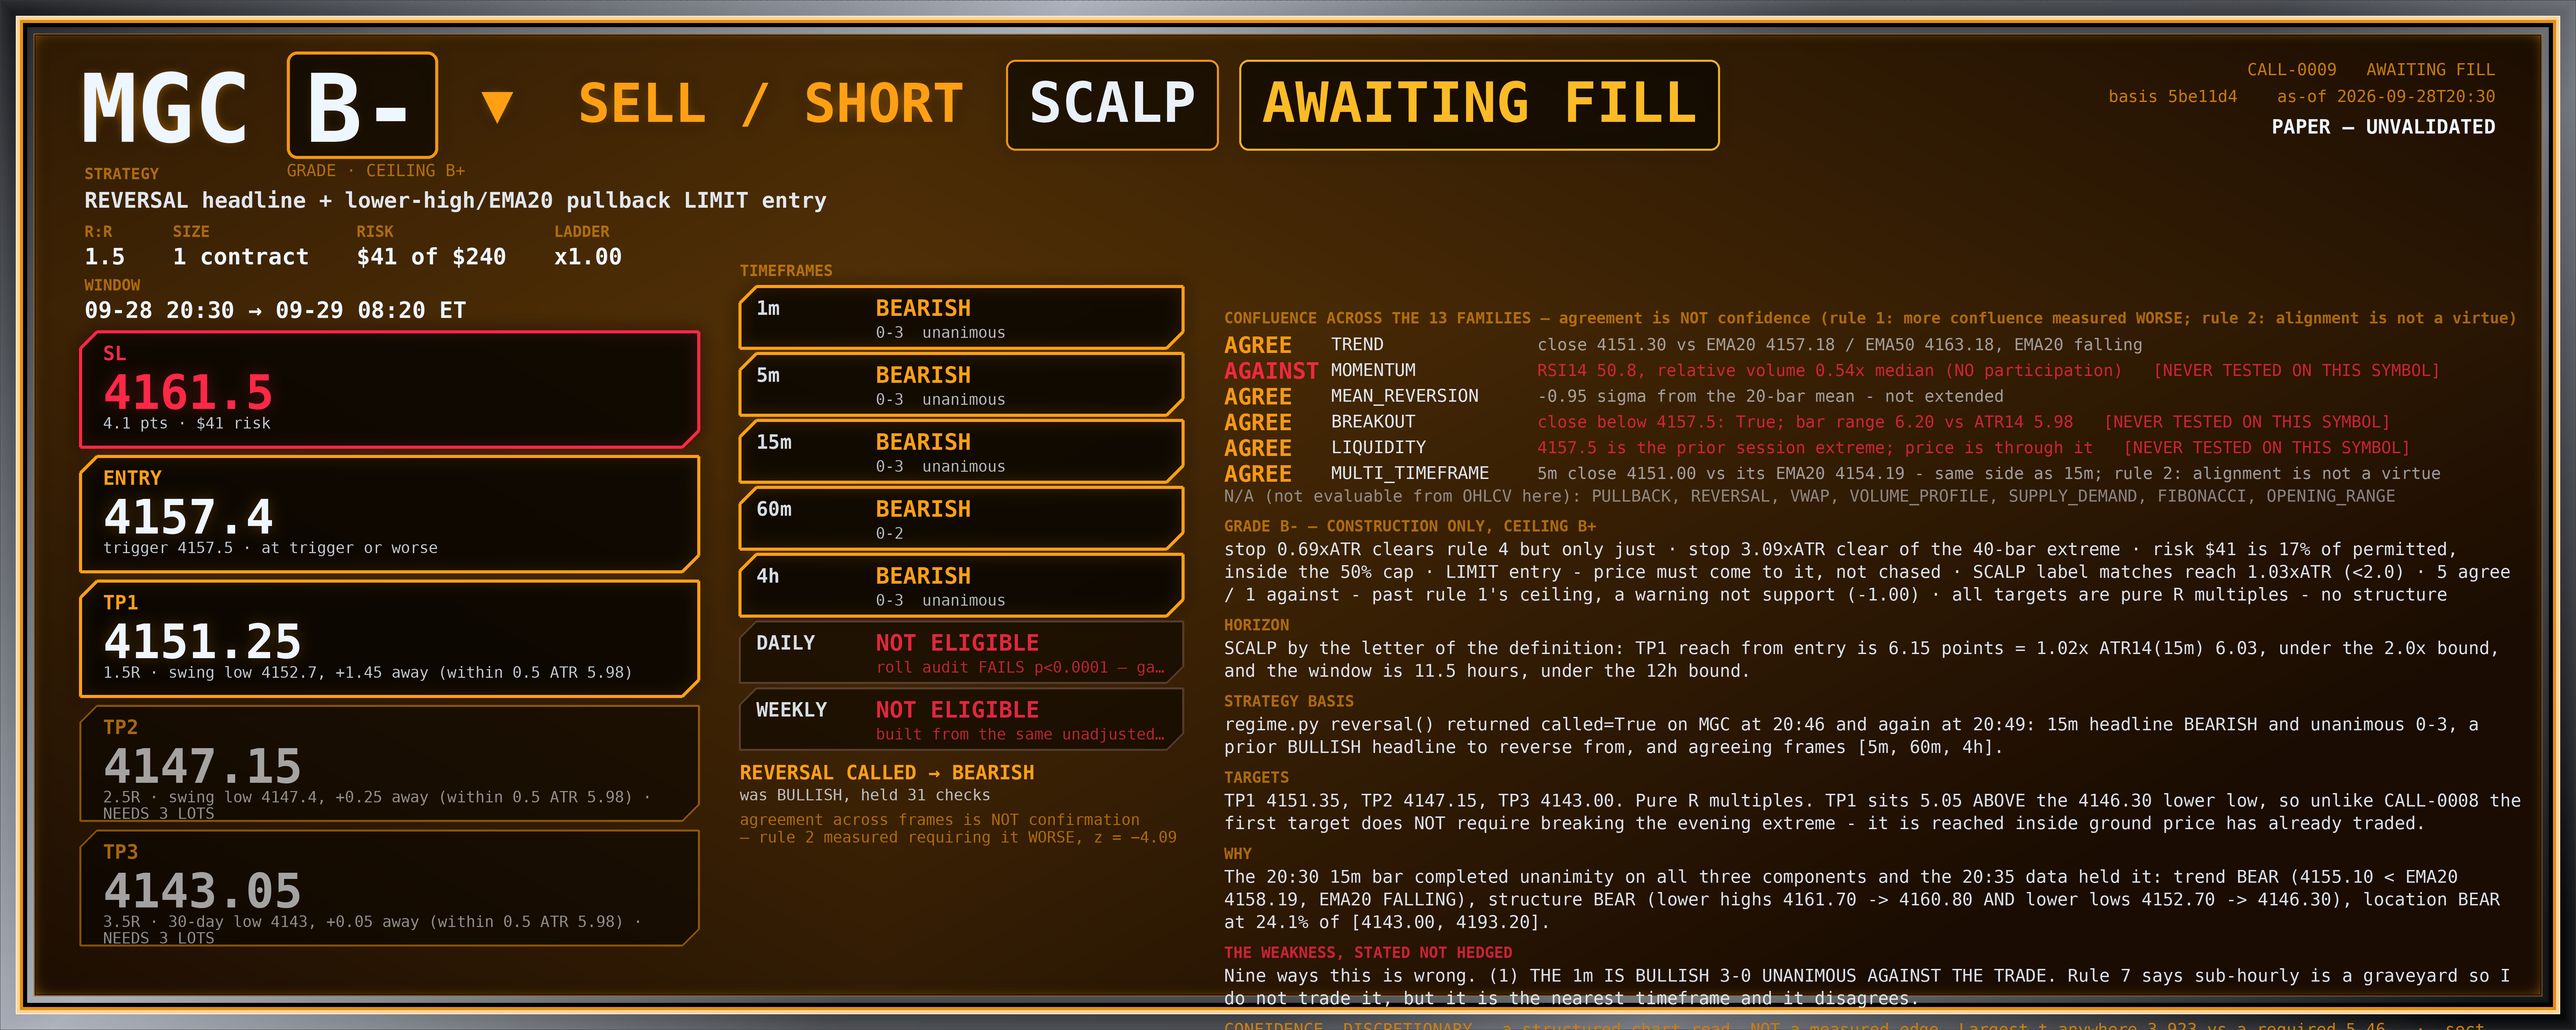
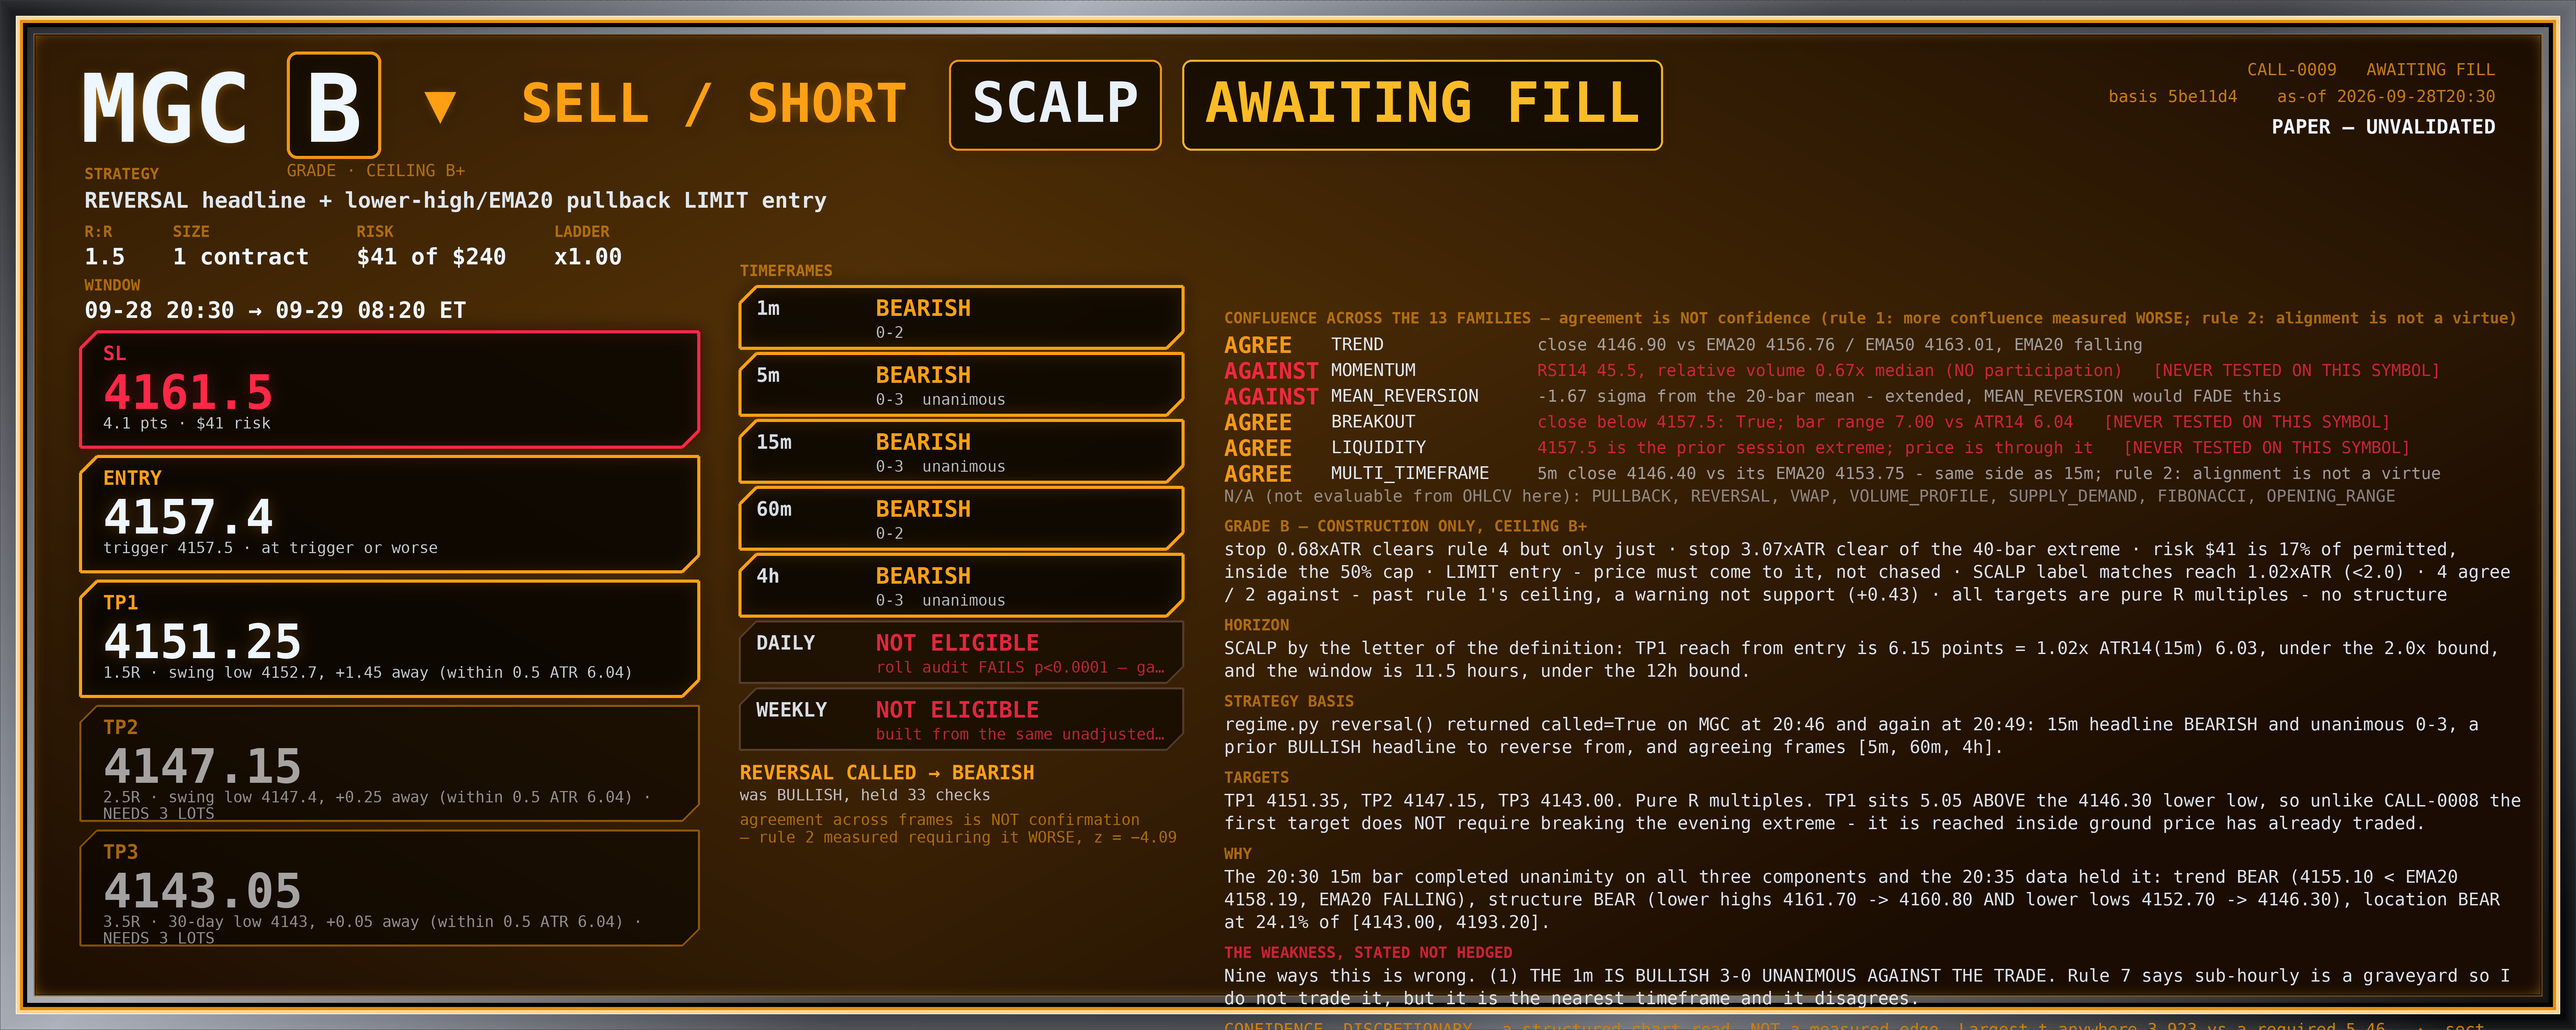
CALL: 21:02 — N228 watch.py location thresholds were 66/34 vs chart.py's 60/40; MNQ reversal declined first-bar
Claude-Session: https://claude.ai/code/session_01EE6PFk7fGa2tM4KP6dpfWD

diff --git a/workspace/paper/CALL/watch.py b/workspace/paper/CALL/watch.py
@@ -15,7 +15,7 @@ would flip each one. Three components must agree for `reversal()` to fire:
 
   trend      close vs EMA20(15m)          -> the level is the EMA20 itself
   structure  last two pivot highs / lows  -> the level is the pivot that must be taken out
-  location   position in the 40-bar range -> the level is the 66% / 34% boundary
+  location   position in the 40-bar range -> the level is the 60% / 40% boundary (chart.py's own cut)
 
 A level here is a TRIGGER TO WATCH, never a plan. Pre-registering still requires the gate to
 actually fire, both vetoes clear, and a written plan with its weakness stated -- and `capacity`
@@ -85,13 +85,18 @@ def report(sym: str) -> None:
         # location
         if rng > 0:
             loc = (px - lo_r) / rng
-            if want > 0 and loc < 0.66:
-                lvl = lo_r + 0.66 * rng
-                need.append(f"location: above {lvl:.2f} = 66% of [{lo_r:.2f}, {hi_r:.2f}]"
+            # N228: these MUST match chart.py's own location thresholds, which are
+            # 60/40, not 66/34. They did not, and this tool reported a bear-location
+            # level ~22 MNQ points further away than the gate actually needed all
+            # evening. chart.py/regime.py are the authority; this is a display fix
+            # to agree with them, and it changes no rule and authorises no trade.
+            if want > 0 and loc < 0.60:
+                lvl = lo_r + 0.60 * rng
+                need.append(f"location: above {lvl:.2f} = 60% of [{lo_r:.2f}, {hi_r:.2f}]"
                             f" ({lvl - px:+.2f} away)")
-            if want < 0 and loc > 0.34:
-                lvl = lo_r + 0.34 * rng
-                need.append(f"location: below {lvl:.2f} = 34% of [{lo_r:.2f}, {hi_r:.2f}]"
+            if want < 0 and loc > 0.40:
+                lvl = lo_r + 0.40 * rng
+                need.append(f"location: below {lvl:.2f} = 40% of [{lo_r:.2f}, {hi_r:.2f}]"
                             f" ({lvl - px:+.2f} away)")
         if not need:
             print(f"   {side}: all three components already agree")

diff --git a/workspace/paper/CALL/DECISIONS.md b/workspace/paper/CALL/DECISIONS.md
@@ -88,3 +88,4 @@ change that can only make my numbers worse is the only kind I can make mid-sessi
 suspicion, and it is the shape every future change should have.
 | 29 | 20:46 | **DECLINED a fired reversal gate.** `regime.py` called MGC BEARISH — all four `reversal()` conditions held, 60m and 4h agreeing, ATR 6.03 vs 10 clear, N196 not binding (price 10.80 ABOVE the new pivot low, so no extreme was being broken). No plan registered | **the gate is defectively composed** (N225): condition 3 tests headline persistence, condition 2 tests tally unanimity, and nothing tests persistence OF the unanimity. `held 21` measured a headline BEARISH for 31 minutes; the call fired only because the tally first hit 0-3. A first-unanimous-bar call passed straight through the condition written to stop it | `reversal_setup()` — the object the procedure says is what the owner means by a confident reversal — returns **sigma −0.06** on MGC, dead on the 20-bar mean, with zero higher frames on side. Nothing to revert from. The indicator flipped; the market did not turn | the unanimity was **intrabar-false when printed**: trend held BEAR by 1.28pt while that same bar's high 4158.70 was already above EMA20 4158.38. Short end going the other way — 1m BULLISH 3-0 unanimous, 5m BEARISH→CONFLICTED, price 4149.50→4157.10 across four checks. The tally-persistence fix is deferred, NOT installed, because installing it now would be rewriting the rule to ratify this decision |
 | 30 | 20:49 | **CALL-0009 REGISTERED — MGC SHORT, limit 4157.50, stop 4161.60, TP1 4151.35, 1 contract, $41 at risk.** The same reversal call I declined at 20:46, taken on the check where its 0-3 unanimity completed a **second** consecutive hold with the 5m joining [5, 60, 240]. Book was flat; $41 = 17.1% of permitted, $79 under the cap | **my 20:46 veto was half-wrong and I am saying which half** (N226): `reversal_setup()` returns side LONG at sigma −0.38 — a mean-reversion test of the OPPOSITE trade — so citing its failure against a continuation short was a misapplied instrument. The sigma survives as weakness (no extension edge either way), not as a veto | the objection that WAS sound — unanimity has no persistence test, so 20:46 was a first-bar call wearing a borrowed `held 21` — is satisfied on its own terms at 20:49. The condition I named is the condition I waited for, and MGC's profile sets `rth_only=False` on measured grounds, so evening gold is inside what this symbol is tested on | the limit sits **0.69 BELOW EMA20 4158.19 deliberately** so a fill does not require the trend component to die, which is the CALL-0007 defect made structural. But trend holds BEAR by only 3.09pt and the 20:35 high 4158.70 already printed above that EMA, so the gate can still lapse pre-fill. 1m BULLISH 3-0 unanimous against it; price at 24.1% of range means this sells near the bottom, not into a rally. The tally-persistence fix stays DEFERRED precisely because it would have authorised this plan |
+| 31 | 21:02 | **DECLINED the MNQ reversal call (first-unanimous-bar), and FIXED a threshold bug in `watch.py`.** `regime.py` called MNQ BEARISH, 0-3 unanimous, `held 15`, agreeing [1, 5, 60, 240]. MNQ's 15m was 0-2 one check ago, so the unanimity is one check old — the N225 defect again. No plan registered | **I quoted the wrong level to the owner all evening** (N228): `watch.py` cut location at 66/34 while `chart.py` cuts it at 60/40, so every MNQ bear-gate distance I reported was ~22 points too far. At 21:00 I said "24.73 away — closest it's been" when price was **2.80** from crossing | declining is the same standard I applied to MGC at 20:46 and then satisfied at 20:49; applying it to one symbol and not the other would make it a preference, not a rule. If MNQ's 0-3 holds the next check it becomes registrable | the bug surfaced because `regime.py` said 0-3 unanimous while `watch.py` still listed location as missing — two of my own tools contradicting each other on the frame that authorises trades. Fixed to 60/40, and that is NOT the N225 exception: this is a display tool disagreeing with its own authority, so the fix permits nothing and blocks nothing. **CALL-0009 separately reads "TARGET DISTANCE COVERED — trigger was the problem"**: fav 6.80 vs 6.15 needed, limit never touched, 5.20 away |

diff --git a/workspace/paper/CALL/NOTES.md b/workspace/paper/CALL/NOTES.md
@@ -8418,3 +8418,58 @@ registration → 4151.70 now, so the 4157.50 sell limit sits **5.80 above** the 
 bounce to fill. The trade's thesis is being confirmed by price while its entry becomes less likely —
 the ordinary fate of a pullback limit, and the reason 3 of 8 prior plans expired. `thesis.py` reports
 "no bars since creation", so there is nothing to track yet. I will not move the limit.
+
+# N228 — `watch.py` used the wrong location thresholds all evening, and I quoted the wrong level to the owner repeatedly
+
+**The bug.** `chart.py` cuts the location component at **60/40**:
+
+```
+d = "BULL" if pos > 60 else ("BEAR" if pos < 40 else "MIXED")
+```
+
+`watch.py` — the forward-scan tool I built at the owner's instruction — cut it at **66/34**. So the
+tool that exists to say *how far price is from opening a gate* was measuring against a boundary the
+gate does not use. `chart.py` and `regime.py` are the authority and were right the whole time; the
+scanner disagreed with them and I reported the scanner.
+
+**What it cost in reporting terms.** On MNQ the 34% boundary sits ~21.93 points below the 40% one, so
+every distance I gave for MNQ's bear location gate tonight was **~22 points too far**:
+
+| what I said | what it actually was |
+|---|---|
+| 20:34 "36.56 away, closing steadily" | ~14.6 away |
+| 20:39 "44.56 away — the sequence has broken" | ~22.6 away |
+| 20:54 "74.23 away, out of reach, not closing" | ~52.3 away |
+| 21:00 "24.73 away — closest it's been" | ~2.8 away |
+
+The qualitative story survives — the level did oscillate and then close hard — but "out of reach" was
+not a true description of a gate 52 points from a symbol whose 15m ATR is 35, and at 21:00 I told the
+owner the gate was 24.73 away when price was **2.80** from crossing it. That is the kind of
+authoritative-looking wrongness this desk exists to avoid, and it was mine.
+
+**Fixed now, and here is why that is not the N225 situation.** N225's tally-persistence repair stays
+deferred because installing it would have changed *which trades are permitted* while a plan it
+authorised was live — a rule change that ratifies a position. This is a different object: a pure
+arithmetic disagreement between a display tool and the authority it is supposed to describe. Fixing
+it permits nothing and blocks nothing, because `regime.py` never read `watch.py`. Leaving it would
+simply keep emitting wrong numbers. The constant is now 60/40 with a comment naming this note.
+
+**And the bug was hiding a live contradiction.** This check, `regime.py` reported MNQ's 15m as **0-3
+unanimous** while `watch.py` simultaneously listed location as the missing bear condition needing
+30480.77. Two of my own tools flatly contradicting each other on the frame that authorises trades is
+what surfaced this — not reading the code. After the fix `watch.py` reads "BEAR: all three components
+already agree," which is what `regime.py` had been saying.
+
+**The MNQ reversal call that fired on this bar: DECLINED, first-unanimous-bar.** `regime.py` printed
+`>>> REVERSAL CALLED: BEARISH (was BULLISH), held 15 checks, agreeing frames [1, 5, 60, 240]` for MNQ.
+Its 15m was **0-2 one check ago**, so this is exactly the N225 defect again: `held 15` measures the
+headline, and the unanimity is one check old. At 20:46 I declined MGC on this reasoning and registered
+at 20:49 when its 0-3 held a second consecutive check. The same standard applies here or it was never
+a standard. **If MNQ's 0-3 survives the next check, it becomes registrable; tonight it does not.**
+
+**MGC, separately: CALL-0009's thesis is now fully paid and the trade never existed.** `thesis.py`
+reads "DIRECTION RIGHT, TARGET DISTANCE COVERED — trigger was the problem": favourable excursion
+**6.80** against the **6.15** TP1 needed, adverse 0.20, with the 4157.50 limit still 5.20 away and
+never touched. Price is at 4146.90, 8.4% of [4143.00, 4189.60]. The read was right, the entry
+construction cost the entire trade, and that goes in the record as a loss of opportunity rather than
+a win — the plan is not edited and will expire NO_FILL at 08:20 unless gold bounces ten points.
